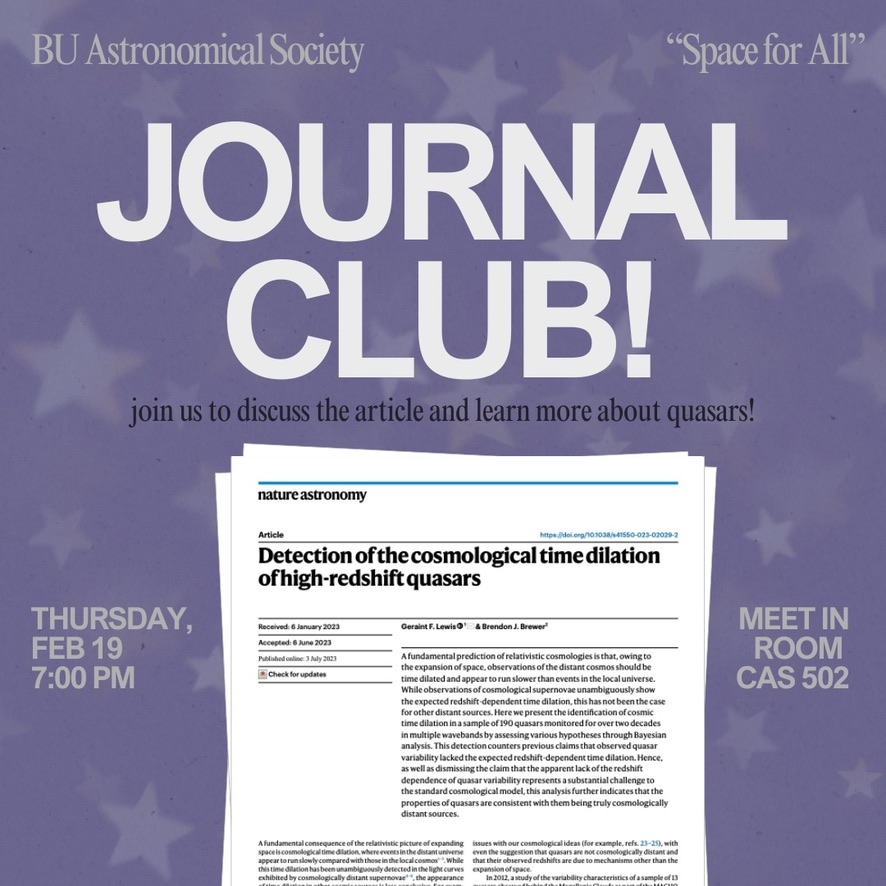
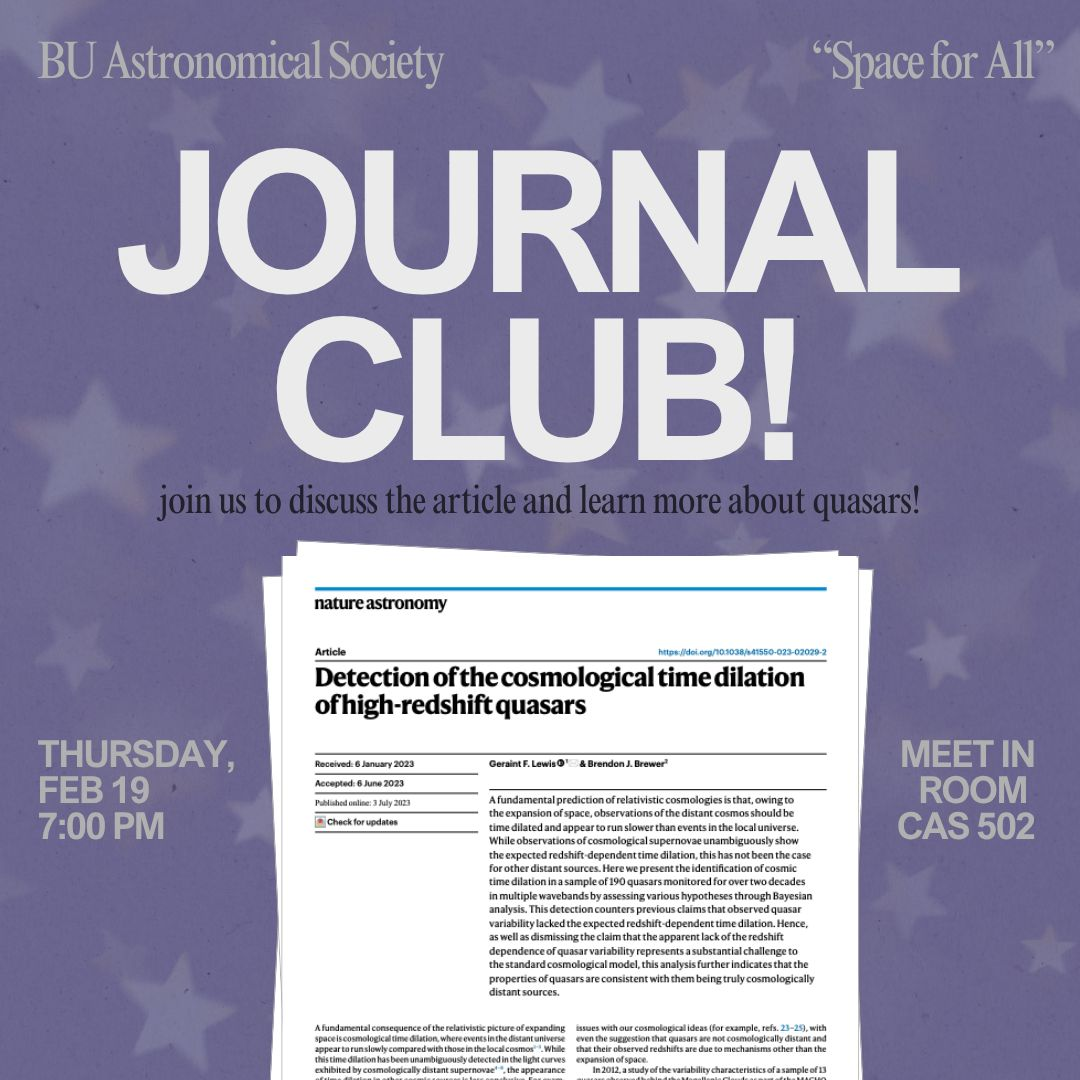
Add all social media and branding work from the slides
BU Astronomical Society: all seven posts from both Canva templates
(meeting template and Journal Club template), with the slide
descriptions of each template. Journal Club image replaced with the
higher-resolution version.

Mom's Hierarchy of Needs: LinkedIn version of the harmful practices
graphic, plus three close-ups of the study summary graphic, with the
slide descriptions of both pieces.

Each picture can carry a short caption (data-cap), shown on hover.

Claude-Session: https://claude.ai/code/session_013Ta1d2Lr23cNVSC2nW9ti9

diff --git a/index.html b/index.html
@@ -15,7 +15,7 @@
   <link rel="preconnect" href="https://fonts.gstatic.com" crossorigin>
   <link href="https://fonts.googleapis.com/css2?family=Bricolage+Grotesque:opsz,wght@12..96,400..800&family=DM+Mono:wght@400;500&family=Instrument+Serif:ital@0;1&family=Mrs+Saint+Delafield&display=swap" rel="stylesheet">
 
-  <link rel="stylesheet" href="desk.css?v=9">
+  <link rel="stylesheet" href="desk.css?v=10">
   <script>document.documentElement.classList.add('js');</script>
 </head>
 
@@ -234,8 +234,15 @@
             <div class="sheet">
               <div class="media">
                 <div class="car">
-                  <img src="images/observatory-night.jpg" alt="A Canva social media graphic announcing Observatory Night for the BU Astronomical Society">
-                  <img src="images/journal-club.jpg" alt="Journal Club announcement graphic showing the featured research paper">
+                  <!-- Meeting template: used for the club's regular meetings -->
+                  <img src="images/observatory-night.jpg" data-cap="Meeting template" alt="Observatory Night announcement: two observatory domes under a starry sky, with the date, time and room">
+                  <img src="images/astro-first-meeting.jpg" data-cap="Meeting template" alt="First Meeting announcement made from the same meeting template, with the observatory domes">
+                  <img src="images/astro-planetary-warfare.jpg" data-cap="Meeting template" alt="Planetary Warfare announcement made from the same meeting template, with a large moon">
+                  <!-- Journal Club template: a different kind of meeting, each post shows the paper being discussed -->
+                  <img src="images/journal-club-lava-planets.jpg" data-cap="Journal Club template" alt="Journal Club announcement featuring a Nature Astronomy paper on lava planets">
+                  <img src="images/journal-club.jpg" data-cap="Journal Club template" alt="Journal Club announcement featuring a paper on the cosmological time dilation of high-redshift quasars">
+                  <img src="images/journal-club-pillars.jpg" data-cap="Journal Club template" alt="Journal Club announcement featuring a paper on magnetic fields in the Pillars of Creation">
+                  <img src="images/journal-club-neutron-stars.jpg" data-cap="Journal Club template" alt="Journal Club announcement featuring a paper on thermonuclear explosions on neutron stars">
                 </div>
               </div>
               <div class="info">
@@ -252,6 +259,10 @@
                     <dd>Announce club meetings with a consistent, recognizable look.</dd>
                     <dt>What I did</dt>
                     <dd>Designed reusable Canva templates, one for regular meetings and one for Journal Club, and used them to announce meetings all year.</dd>
+                    <dt>Meeting template</dt>
+                    <dd>One template I created in Canva and used to announce different club meetings throughout the semester, from our first meeting to Planetary Warfare and Observatory Night.</dd>
+                    <dt>Journal Club template</dt>
+                    <dd>A second template for a type of meeting that was different from our usual ones, where members discuss a research article. Each post features the paper being discussed, from lava planets and distant quasars to the Pillars of Creation and neutron stars.</dd>
                   </dl>
                 </details>
               </div>
@@ -268,8 +279,12 @@
             <div class="sheet">
               <div class="media">
                 <div class="car">
-                  <img src="images/mhon-harmful-practices.jpg" alt="Infographic listing harmful employer practices according to caregivers with cancer, in Pinterest and LinkedIn sizes">
-                  <img src="images/mhon-self-care.jpg" alt="Infographic on how employers can support caregivers with cancer, summarizing a research study">
+                  <img src="images/mhon-harmful-practices.jpg" data-cap="Harmful practices · Pinterest size" alt="Harmful Employer Practices According to Caregivers with Cancer infographic, tall Pinterest version">
+                  <img src="images/mhon-harmful-practices-linkedin.jpg" data-cap="Harmful practices · LinkedIn size" alt="Harmful Employer Practices According to Caregivers with Cancer infographic, wide LinkedIn version">
+                  <img src="images/mhon-self-care.jpg" data-cap="Study summary · full graphic" alt="How Employers Can Support Caregivers with Cancer: The Impact of Self Care, a long infographic summarizing a study">
+                  <img src="images/mhon-self-care-1.jpg" data-cap="Study summary · close-up 1 of 3" alt="Close-up of the summary infographic: the title and what self-care is">
+                  <img src="images/mhon-self-care-2.jpg" data-cap="Study summary · close-up 2 of 3" alt="Close-up of the summary infographic: proactively promoting employee well-being and perceived organizational support, with caregiver quotes">
+                  <img src="images/mhon-self-care-3.jpg" data-cap="Study summary · close-up 3 of 3" alt="Close-up of the summary infographic: more flexibility, less stress, and six practical employer interventions">
                 </div>
               </div>
               <div class="info">
@@ -286,6 +301,10 @@
                     <dd>Turn findings from a study on caregivers with cancer into infographics employers can understand quickly.</dd>
                     <dt>What I did</dt>
                     <dd>Designed a set of infographics in Figma, including versions sized for Pinterest and LinkedIn, and a larger summary graphic of the study. I followed the organization&rsquo;s existing brand and color palette closely.</dd>
+                    <dt>Harmful employer practices</dt>
+                    <dd>A set of infographics created in Figma from a study by MHON, one sized for Pinterest and one for LinkedIn. They were designed carefully around MHON&rsquo;s existing branding and color palette, which the designers were asked to stick to very closely.</dd>
+                    <dt>Study summary</dt>
+                    <dd>A larger infographic created in Figma as a summary of a larger study done by MHON, also designed with their existing branding in mind. It covers what self-care is, what the statistics say about its benefits, and practical ways employers can help.</dd>
                   </dl>
                 </details>
               </div>
@@ -440,6 +459,6 @@
   <p class="lightbox-caption"></p>
 </dialog>
 
-<script src="desk.js?v=8"></script>
+<script src="desk.js?v=9"></script>
 </body>
 </html>

diff --git a/desk.css b/desk.css
@@ -265,10 +265,12 @@ html:not(.js) .car img:first-child { opacity: 1; }
 .car-next { right: .7rem; }
 .car-count, .car-zoom { position: absolute; bottom: .7rem; z-index: 3; padding: .2rem .7rem; font: 400 .72rem var(--f-mono); background: var(--paper); border-radius: 99em; transition: opacity .2s; pointer-events: none; }
 .car-count { right: .7rem; }
+.car-cap { position: absolute; top: .7rem; left: .7rem; z-index: 3; padding: .2rem .7rem; font: 400 .7rem var(--f-mono); letter-spacing: .04em; background: var(--wine); color: var(--champagne); border-radius: 99em; pointer-events: none; transition: opacity .2s; }
+.car-cap:empty { display: none; }
 .car-zoom { left: .7rem; }
 @media (hover: hover) {
-  .car-btn, .car-count, .car-zoom { opacity: 0; }
-  .media:hover .car-btn, .media:hover .car-count, .media:hover .car-zoom,
+  .car-btn, .car-count, .car-zoom, .car-cap { opacity: 0; }
+  .media:hover .car-btn, .media:hover .car-count, .media:hover .car-zoom, .media:hover .car-cap,
   .media:focus-within .car-btn, .media:focus-within .car-count { opacity: 1; }
 }
 

diff --git a/desk.js b/desk.js
@@ -162,8 +162,12 @@
       ph.innerHTML = 'add image:<br>' + imgs[idx].getAttribute('src');
       car.classList.toggle('is-missing', imgs[idx].style.visibility === 'hidden');
       if (count) count.textContent = (idx + 1) + ' / ' + imgs.length;
+      cap.textContent = imgs[idx].getAttribute('data-cap') || '';
     }
     var media = car.parentElement;
+    var cap = document.createElement('span');                  // short label for the current picture, e.g. "LinkedIn size"
+    cap.className = 'car-cap';
+    media.appendChild(cap);
     var zoom = document.createElement('span');
     zoom.className = 'car-zoom'; zoom.textContent = 'click to enlarge';
     media.appendChild(zoom);

diff --git a/campfire-case-study.html b/campfire-case-study.html
@@ -12,7 +12,7 @@
   <link rel="preconnect" href="https://fonts.googleapis.com">
   <link rel="preconnect" href="https://fonts.gstatic.com" crossorigin>
   <link href="https://fonts.googleapis.com/css2?family=Bricolage+Grotesque:opsz,wght@12..96,400..800&family=DM+Mono:wght@400;500&family=Instrument+Serif:ital@0;1&family=Mrs+Saint+Delafield&display=swap" rel="stylesheet">
-  <link rel="stylesheet" href="desk.css?v=9">
+  <link rel="stylesheet" href="desk.css?v=10">
 </head>
 
 <body class="case-page">

diff --git a/wardrobe-case-study.html b/wardrobe-case-study.html
@@ -12,7 +12,7 @@
   <link rel="preconnect" href="https://fonts.googleapis.com">
   <link rel="preconnect" href="https://fonts.gstatic.com" crossorigin>
   <link href="https://fonts.googleapis.com/css2?family=Bricolage+Grotesque:opsz,wght@12..96,400..800&family=DM+Mono:wght@400;500&family=Instrument+Serif:ital@0;1&family=Mrs+Saint+Delafield&display=swap" rel="stylesheet">
-  <link rel="stylesheet" href="desk.css?v=9">
+  <link rel="stylesheet" href="desk.css?v=10">
 </head>
 
 <body class="case-page">
